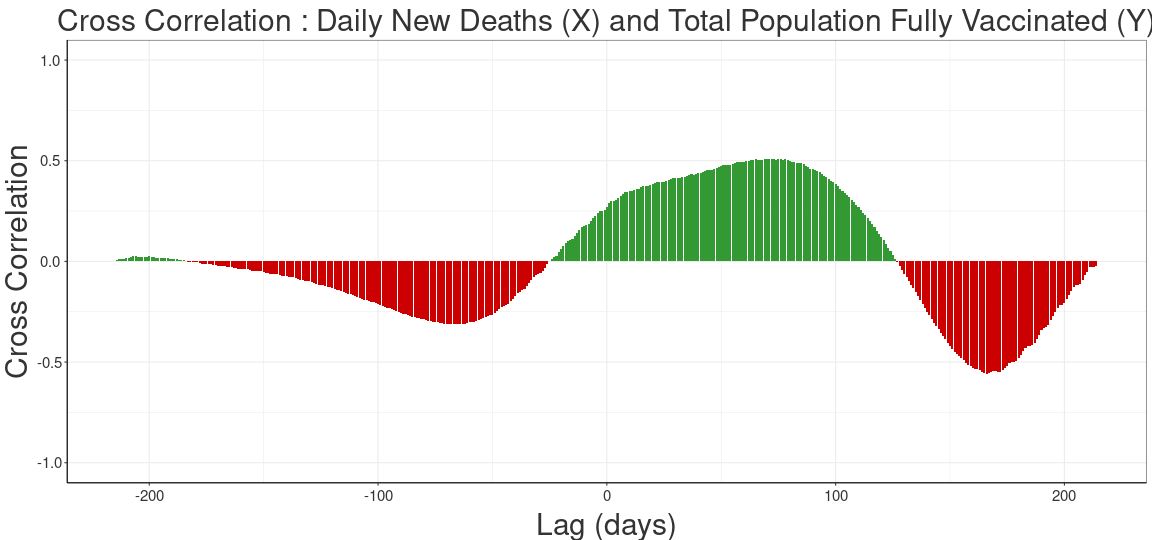
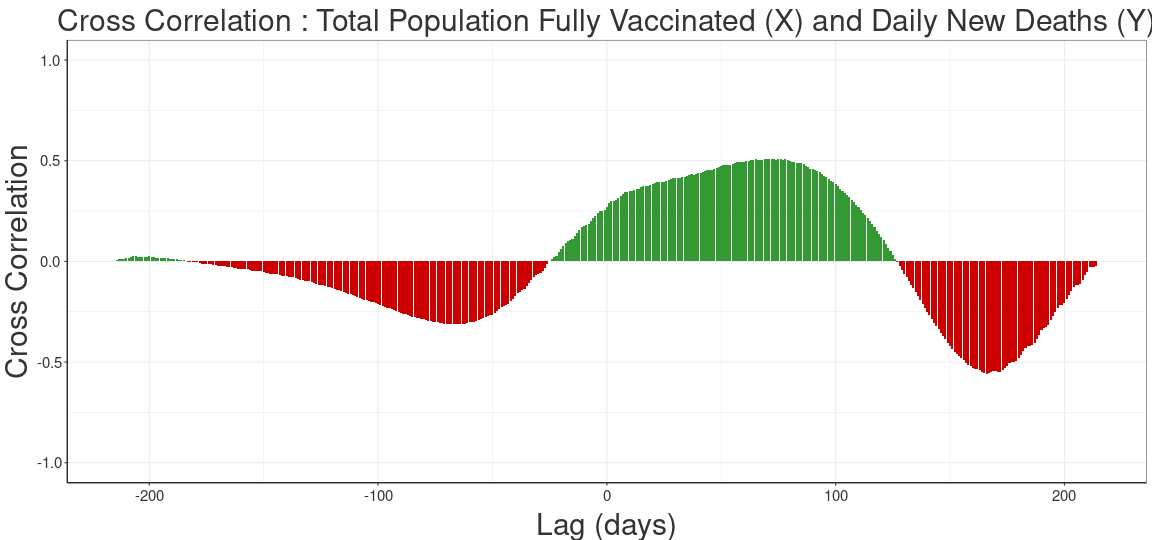
Fix minor error if ccf vaccination cases/deaths slide

Changed region(s): [[0.25, 0.0, 0.9688, 0.0593]]

diff --git a/presentation/presentation.html b/presentation/presentation.html
@@ -4,7 +4,7 @@
     <title>DCS210 Final Project</title>
     <meta charset="utf-8" />
     <meta name="author" content="omarxinyijohn   John Mieszczanski &amp; Omar Sarr &amp; Xinyi Zhang" />
-    <meta name="date" content="2021-11-17" />
+    <meta name="date" content="2021-11-18" />
     <script src="libs/header-attrs-2.11/header-attrs.js"></script>
     <script src="libs/core-js-2.5.3/shim.min.js"></script>
     <script src="libs/react-17.0.0/react.min.js"></script>
@@ -22,7 +22,7 @@ class: center, middle, inverse, title-slide
 ## Exploring COVID-19 Data
 ### omarxinyijohn <br> John Mieszczanski &amp; Omar Sarr &amp; Xinyi Zhang
 ### Bates College
-### 2021-11-17
+### 2021-11-18
 
 ---
 
@@ -60,8 +60,8 @@ shutting down indefinitely. Two days later, Bates College announced they would
 be sending us home!
 
 How do these two key dates compare the worst day(s) of the pandemic?
-<div id="htmlwidget-5c03647a2a602cbb1918" class="reactable html-widget" style="width:auto;height:auto;"></div>
-<script type="application/json" data-for="htmlwidget-5c03647a2a602cbb1918">{"x":{"tag":{"name":"Reactable","attribs":{"data":{"submission_date":["2021-01-13","2021-01-06","2020-03-13","2020-03-11","2020-01-22"],"total_new_cases":[232342,286542,1211,796,7],"total_new_deaths":[4095,4040,10,14,0],"total_cases":[22914389,21284925,6750,4464,7],"total_deaths":[388855,363853,296,279,0]},"columns":[{"accessor":"submission_date","name":"submission_date","type":"Date"},{"accessor":"total_new_cases","name":"total_new_cases","type":"numeric"},{"accessor":"total_new_deaths","name":"total_new_deaths","type":"numeric"},{"accessor":"total_cases","name":"total_cases","type":"numeric"},{"accessor":"total_deaths","name":"total_deaths","type":"numeric"}],"defaultPageSize":10,"paginationType":"numbers","showPageInfo":true,"minRows":1,"dataKey":"b6435a103110c66afc4fb2fd4955db14","key":"b6435a103110c66afc4fb2fd4955db14"},"children":[]},"class":"reactR_markup"},"evals":[],"jsHooks":[]}</script>
+<div id="htmlwidget-35b391b0701672d4770f" class="reactable html-widget" style="width:auto;height:auto;"></div>
+<script type="application/json" data-for="htmlwidget-35b391b0701672d4770f">{"x":{"tag":{"name":"Reactable","attribs":{"data":{"submission_date":["2021-01-13","2021-01-06","2020-03-13","2020-03-11","2020-01-22"],"total_new_cases":[232342,286542,1211,796,7],"total_new_deaths":[4095,4040,10,14,0],"total_cases":[22914389,21284925,6750,4464,7],"total_deaths":[388855,363853,296,279,0]},"columns":[{"accessor":"submission_date","name":"submission_date","type":"Date"},{"accessor":"total_new_cases","name":"total_new_cases","type":"numeric"},{"accessor":"total_new_deaths","name":"total_new_deaths","type":"numeric"},{"accessor":"total_cases","name":"total_cases","type":"numeric"},{"accessor":"total_deaths","name":"total_deaths","type":"numeric"}],"defaultPageSize":10,"paginationType":"numbers","showPageInfo":true,"minRows":1,"dataKey":"b6435a103110c66afc4fb2fd4955db14","key":"b6435a103110c66afc4fb2fd4955db14"},"children":[]},"class":"reactR_markup"},"evals":[],"jsHooks":[]}</script>
 
 
 
@@ -124,7 +124,7 @@ Results from the linear regression:
 ```
 ## parsnip model object
 ## 
-## Fit time:  2ms 
+## Fit time:  1ms 
 ## 
 ## Call:
 ## stats::lm(formula = total_new_deaths ~ total_new_cases, data = data)
@@ -179,8 +179,8 @@ it is sometimes said that **x lags y** `\(^*\)`
 ![](presentation_files/figure-html/unnamed-chunk-13-1.png)&lt;!-- --&gt;
 ---
 ### COVID-19 Cases and Deaths - What is the correlation?
-<div id="htmlwidget-1deba258358ea8a2e4f8" class="reactable html-widget" style="width:auto;height:auto;"></div>
-<script type="application/json" data-for="htmlwidget-1deba258358ea8a2e4f8">{"x":{"tag":{"name":"Reactable","attribs":{"data":{"lag":[-14,-13,-12,-11,-10,-9,-8,-7,-6,-5,-4,-3,-2,-1,0,1,2,3,4,5,6,7,8,9,10,11,12,13,14],"CCF":[0.615668424623971,0.606773140455285,0.59186688302889,0.593973717825131,0.618641552254152,0.659613299285235,0.70125876571578,0.722280253922383,0.708958451876537,0.687850806985028,0.687962957595549,0.711616677481224,0.754171830561287,0.799068675949353,0.820502227153397,0.796409771368472,0.763673282639324,0.752818541854009,0.768960473702557,0.803219475801107,0.840492750961459,0.852195623010247,0.828596579563542,0.79344775594735,0.779349918908669,0.787212753058398,0.815599374576751,0.847000704762521,0.855138637319276]},"columns":[{"accessor":"lag","name":"lag","type":"numeric"},{"accessor":"CCF","name":"CCF","type":"numeric"}],"defaultPageSize":10,"paginationType":"numbers","showPageInfo":true,"minRows":1,"dataKey":"73cb36252ca6b8200959be914ee4eb77","key":"73cb36252ca6b8200959be914ee4eb77"},"children":[]},"class":"reactR_markup"},"evals":[],"jsHooks":[]}</script>
+<div id="htmlwidget-3b3ac7d7e48b081a2236" class="reactable html-widget" style="width:auto;height:auto;"></div>
+<script type="application/json" data-for="htmlwidget-3b3ac7d7e48b081a2236">{"x":{"tag":{"name":"Reactable","attribs":{"data":{"lag":[-14,-13,-12,-11,-10,-9,-8,-7,-6,-5,-4,-3,-2,-1,0,1,2,3,4,5,6,7,8,9,10,11,12,13,14],"CCF":[0.615668424623971,0.606773140455285,0.59186688302889,0.593973717825131,0.618641552254152,0.659613299285235,0.70125876571578,0.722280253922383,0.708958451876537,0.687850806985028,0.687962957595549,0.711616677481224,0.754171830561287,0.799068675949353,0.820502227153397,0.796409771368472,0.763673282639324,0.752818541854009,0.768960473702557,0.803219475801107,0.840492750961459,0.852195623010247,0.828596579563542,0.79344775594735,0.779349918908669,0.787212753058398,0.815599374576751,0.847000704762521,0.855138637319276]},"columns":[{"accessor":"lag","name":"lag","type":"numeric"},{"accessor":"CCF","name":"CCF","type":"numeric"}],"defaultPageSize":10,"paginationType":"numbers","showPageInfo":true,"minRows":1,"dataKey":"73cb36252ca6b8200959be914ee4eb77","key":"73cb36252ca6b8200959be914ee4eb77"},"children":[]},"class":"reactR_markup"},"evals":[],"jsHooks":[]}</script>
 ---
 ### COVID-19 Vaccinations Over Time
 Now let's take a look at how the number people of vaccinated in the United States 
@@ -213,15 +213,15 @@ in conjunction with one another:
 ![](presentation_files/figure-html/unnamed-chunk-22-1.png)&lt;!-- --&gt;
 ---
 ### Exploring the Relationship Between Vaccinations and Cases/Deaths
-<div id="htmlwidget-1a5cf232e05fde419f75" class="reactable html-widget" style="width:auto;height:auto;"></div>
-<script type="application/json" data-for="htmlwidget-1a5cf232e05fde419f75">{"x":{"tag":{"name":"Reactable","attribs":{"data":{"lag":[-100,-99,-98,-97,-96,-95,-94,-93,-92,-91,-90,-89,-88,-87,-86,-85,-84,-83,-82,-81,-80,-79,-78,-77,-76,-75,-74,-73,-72,-71,-70,-69,-68,-67,-66,-65,-64,-63,-62,-61,-60,-59,-58,-57,-56,-55,-54,-53,-52,-51,-50,-49,-48,-47,-46,-45,-44,-43,-42,-41,-40,-39,-38,-37,-36,-35,-34,-33,-32,-31,-30,-29,-28,-27,-26,-25,-24,-23,-22,-21,-20,-19,-18,-17,-16,-15,-14,-13,-12,-11,-10,-9,-8,-7,-6,-5,-4,-3,-2,-1,0,1,2,3,4,5,6,7,8,9,10,11,12,13,14,15,16,17,18,19,20,21,22,23,24,25,26,27,28,29,30,31,32,33,34,35,36,37,38,39,40,41,42,43,44,45,46,47,48,49,50,51,52,53,54,55,56,57,58,59,60,61,62,63,64,65,66,67,68,69,70,71,72,73,74,75,76,77,78,79,80,81,82,83,84,85,86,87,88,89,90,91,92,93,94,95,96,97,98,99,100],"CCF":[-0.213248381380957,-0.217738907213843,-0.221566702904557,-0.225477982033781,-0.229586793617756,-0.233048988684151,-0.237652421344898,-0.242609425352485,-0.247552933009512,-0.251705927720915,-0.25531451810164,-0.259276380470779,-0.262376453339252,-0.266710820519255,-0.271186004412279,-0.274768191197299,-0.277260332341809,-0.279712017230907,-0.28222493253776,-0.284730238455088,-0.288307875274155,-0.292305342146084,-0.295418333116981,-0.297886975700913,-0.299322966862015,-0.301385820654071,-0.302772915743377,-0.304970087620152,-0.307561156284075,-0.309195673094132,-0.309497386545392,-0.310195179419955,-0.3105034843543,-0.310462463962311,-0.311364849994302,-0.312874668167242,-0.312718950160766,-0.310797197600129,-0.308513865131956,-0.306175492005488,-0.302859833878696,-0.301031108514897,-0.300313129696181,-0.297679937719046,-0.292855640880998,-0.287724904388651,-0.282431257384573,-0.275389397052806,-0.271294113316808,-0.268499115744833,-0.264715536585255,-0.257188853369181,-0.24683210217485,-0.238044644329851,-0.227453656606116,-0.220460278301245,-0.216337256769057,-0.209221644272566,-0.197511952846254,-0.185548597996994,-0.172924083901521,-0.159197567454319,-0.149728744089115,-0.14272123014025,-0.134668377081324,-0.12251134287058,-0.108228017467368,-0.0934073110990228,-0.0789116371317118,-0.0693815529336841,-0.062489137608472,-0.0565906538228863,-0.0461361935153978,-0.030841885939028,-0.0145755676866547,0.0024847573280493,0.0128670500672548,0.0195616393053635,0.0269817711386626,0.0443417961730321,0.0600228483604656,0.0744530046338804,0.0905079129519432,0.0998699446921936,0.105218332752197,0.11239243637139,0.127129714088622,0.140983552782672,0.154530559608397,0.170163510389643,0.177033998268327,0.180218372839912,0.186778243904811,0.199540861364867,0.215160654361916,0.227846682904296,0.242752607192807,0.248199062134119,0.249684571620469,0.253830482650125,0.268829697421208,0.288410506687825,0.297585846754769,0.300396573031002,0.305353498306544,0.31372723091128,0.324737655052863,0.333527780810887,0.342682836038088,0.346922863481406,0.347747923637613,0.349792548459522,0.35566881316532,0.360212870316439,0.361843981139554,0.370827795375333,0.374362694090239,0.374327387533081,0.375238218849525,0.378111665204449,0.383518141703877,0.387304613519141,0.39353291636252,0.396338998950925,0.395445090840667,0.396513785291906,0.400176108344763,0.405972572626998,0.408809456127532,0.411855430336237,0.415065615470189,0.414457766139951,0.412614748022237,0.416801878873492,0.420796830744878,0.42467968565996,0.428995953258749,0.43181561803205,0.430759971423945,0.431941120312133,0.437193165816888,0.441034348511068,0.444823972977834,0.450768579131295,0.453067408649812,0.453303080449016,0.454119481428776,0.45928188599363,0.463080445619676,0.466986628580403,0.473424922647656,0.477062166560483,0.476458002356054,0.477272823737288,0.478641874321376,0.484096105195811,0.487885777669509,0.492591918834224,0.493638204421527,0.492425959092883,0.492723755852608,0.496734089093231,0.499305393369647,0.501276020274371,0.505966228045238,0.506678806187139,0.504525790496263,0.502846276212151,0.504770432890873,0.507196294743317,0.508054221354938,0.511027530288188,0.50960256101898,0.507616785015745,0.505128783945945,0.506241663239969,0.506310423489201,0.505121219814794,0.506200900887701,0.503253705015605,0.497599148670306,0.493661965478604,0.491761035765903,0.489504076160172,0.487550011481658,0.486363819982571,0.481563075731147,0.47475429082566,0.467561698946985,0.461138448056947,0.456856074787155,0.45181231668865,0.449042531062344,0.44203778882033,0.433309047212647,0.425885775493286,0.417571770605893,0.409286627882858,0.401796142265858,0.394092591274254,0.385033528853741]},"columns":[{"accessor":"lag","name":"lag","type":"numeric"},{"accessor":"CCF","name":"CCF","type":"numeric"}],"defaultPageSize":10,"paginationType":"numbers","showPageInfo":true,"minRows":1,"dataKey":"f3e5d51efcc221b11eb30845437daa5f","key":"f3e5d51efcc221b11eb30845437daa5f"},"children":[]},"class":"reactR_markup"},"evals":[],"jsHooks":[]}</script>
+<div id="htmlwidget-9a14126a08b39ea4b765" class="reactable html-widget" style="width:auto;height:auto;"></div>
+<script type="application/json" data-for="htmlwidget-9a14126a08b39ea4b765">{"x":{"tag":{"name":"Reactable","attribs":{"data":{"lag":[-100,-99,-98,-97,-96,-95,-94,-93,-92,-91,-90,-89,-88,-87,-86,-85,-84,-83,-82,-81,-80,-79,-78,-77,-76,-75,-74,-73,-72,-71,-70,-69,-68,-67,-66,-65,-64,-63,-62,-61,-60,-59,-58,-57,-56,-55,-54,-53,-52,-51,-50,-49,-48,-47,-46,-45,-44,-43,-42,-41,-40,-39,-38,-37,-36,-35,-34,-33,-32,-31,-30,-29,-28,-27,-26,-25,-24,-23,-22,-21,-20,-19,-18,-17,-16,-15,-14,-13,-12,-11,-10,-9,-8,-7,-6,-5,-4,-3,-2,-1,0,1,2,3,4,5,6,7,8,9,10,11,12,13,14,15,16,17,18,19,20,21,22,23,24,25,26,27,28,29,30,31,32,33,34,35,36,37,38,39,40,41,42,43,44,45,46,47,48,49,50,51,52,53,54,55,56,57,58,59,60,61,62,63,64,65,66,67,68,69,70,71,72,73,74,75,76,77,78,79,80,81,82,83,84,85,86,87,88,89,90,91,92,93,94,95,96,97,98,99,100],"CCF":[-0.213248381380957,-0.217738907213843,-0.221566702904557,-0.225477982033781,-0.229586793617756,-0.233048988684151,-0.237652421344898,-0.242609425352485,-0.247552933009512,-0.251705927720915,-0.25531451810164,-0.259276380470779,-0.262376453339252,-0.266710820519255,-0.271186004412279,-0.274768191197299,-0.277260332341809,-0.279712017230907,-0.28222493253776,-0.284730238455088,-0.288307875274155,-0.292305342146084,-0.295418333116981,-0.297886975700913,-0.299322966862015,-0.301385820654071,-0.302772915743377,-0.304970087620152,-0.307561156284075,-0.309195673094132,-0.309497386545392,-0.310195179419955,-0.3105034843543,-0.310462463962311,-0.311364849994302,-0.312874668167242,-0.312718950160766,-0.310797197600129,-0.308513865131956,-0.306175492005488,-0.302859833878696,-0.301031108514897,-0.300313129696181,-0.297679937719046,-0.292855640880998,-0.287724904388651,-0.282431257384573,-0.275389397052806,-0.271294113316808,-0.268499115744833,-0.264715536585255,-0.257188853369181,-0.24683210217485,-0.238044644329851,-0.227453656606116,-0.220460278301245,-0.216337256769057,-0.209221644272566,-0.197511952846254,-0.185548597996994,-0.172924083901521,-0.159197567454319,-0.149728744089115,-0.14272123014025,-0.134668377081324,-0.12251134287058,-0.108228017467368,-0.0934073110990228,-0.0789116371317118,-0.0693815529336841,-0.062489137608472,-0.0565906538228863,-0.0461361935153978,-0.030841885939028,-0.0145755676866547,0.0024847573280493,0.0128670500672548,0.0195616393053635,0.0269817711386626,0.0443417961730321,0.0600228483604656,0.0744530046338804,0.0905079129519432,0.0998699446921936,0.105218332752197,0.11239243637139,0.127129714088622,0.140983552782672,0.154530559608397,0.170163510389643,0.177033998268327,0.180218372839912,0.186778243904811,0.199540861364867,0.215160654361916,0.227846682904296,0.242752607192807,0.248199062134119,0.249684571620469,0.253830482650125,0.268829697421208,0.288410506687825,0.297585846754769,0.300396573031002,0.305353498306544,0.31372723091128,0.324737655052863,0.333527780810887,0.342682836038088,0.346922863481406,0.347747923637613,0.349792548459522,0.35566881316532,0.360212870316439,0.361843981139554,0.370827795375333,0.374362694090239,0.374327387533081,0.375238218849525,0.378111665204449,0.383518141703877,0.387304613519141,0.39353291636252,0.396338998950925,0.395445090840667,0.396513785291906,0.400176108344763,0.405972572626998,0.408809456127532,0.411855430336237,0.415065615470189,0.414457766139951,0.412614748022237,0.416801878873492,0.420796830744878,0.42467968565996,0.428995953258749,0.43181561803205,0.430759971423945,0.431941120312133,0.437193165816888,0.441034348511068,0.444823972977834,0.450768579131295,0.453067408649812,0.453303080449016,0.454119481428776,0.45928188599363,0.463080445619676,0.466986628580403,0.473424922647656,0.477062166560483,0.476458002356054,0.477272823737288,0.478641874321376,0.484096105195811,0.487885777669509,0.492591918834224,0.493638204421527,0.492425959092883,0.492723755852608,0.496734089093231,0.499305393369647,0.501276020274371,0.505966228045238,0.506678806187139,0.504525790496263,0.502846276212151,0.504770432890873,0.507196294743317,0.508054221354938,0.511027530288188,0.50960256101898,0.507616785015745,0.505128783945945,0.506241663239969,0.506310423489201,0.505121219814794,0.506200900887701,0.503253705015605,0.497599148670306,0.493661965478604,0.491761035765903,0.489504076160172,0.487550011481658,0.486363819982571,0.481563075731147,0.47475429082566,0.467561698946985,0.461138448056947,0.456856074787155,0.45181231668865,0.449042531062344,0.44203778882033,0.433309047212647,0.425885775493286,0.417571770605893,0.409286627882858,0.401796142265858,0.394092591274254,0.385033528853741]},"columns":[{"accessor":"lag","name":"lag","type":"numeric"},{"accessor":"CCF","name":"CCF","type":"numeric"}],"defaultPageSize":10,"paginationType":"numbers","showPageInfo":true,"minRows":1,"dataKey":"f3e5d51efcc221b11eb30845437daa5f","key":"f3e5d51efcc221b11eb30845437daa5f"},"children":[]},"class":"reactR_markup"},"evals":[],"jsHooks":[]}</script>
 ---
 ### Exploring the Seasonality of COVID-19
 Let's explore the relationship between COVID-19 and the four seasons:
 
 
-<div id="htmlwidget-cd7b7d2c86438dadceaf" class="reactable html-widget" style="width:auto;height:auto;"></div>
-<script type="application/json" data-for="htmlwidget-cd7b7d2c86438dadceaf">{"x":{"tag":{"name":"Reactable","attribs":{"data":{"season":["Fall","Spring","Summer","Winter"],"median_ncases":[86178,26539,45333.5,114615],"median_ndeaths":[964,663,708,2275],"mean_ncases":[94741.6428571429,32010.0706521739,55820.5217391304,111475.248062016],"mean_ndeaths":[1125,780.233695652174,719.423913043478,1860.73643410853],"sd_ncases":[50830.6077759398,19627.5833506379,43210.6982877295,92795.6783835991],"sd_ndeaths":[492.16530556308,530.913085778405,390.067634143699,1387.18077701333],"min_ncases":[23414,77,8167,0],"max_ncases":[199128,74299,187655,286542],"iqr_ncases":[90448,28182.75,45957.5,194425]},"columns":[{"accessor":"season","name":"season","type":"character"},{"accessor":"median_ncases","name":"median_ncases","type":"numeric"},{"accessor":"median_ndeaths","name":"median_ndeaths","type":"numeric"},{"accessor":"mean_ncases","name":"mean_ncases","type":"numeric"},{"accessor":"mean_ndeaths","name":"mean_ndeaths","type":"numeric"},{"accessor":"sd_ncases","name":"sd_ncases","type":"numeric"},{"accessor":"sd_ndeaths","name":"sd_ndeaths","type":"numeric"},{"accessor":"min_ncases","name":"min_ncases","type":"numeric"},{"accessor":"max_ncases","name":"max_ncases","type":"numeric"},{"accessor":"iqr_ncases","name":"iqr_ncases","type":"numeric"}],"defaultPageSize":10,"paginationType":"numbers","showPageInfo":true,"minRows":1,"dataKey":"d6f277635197c51923d123d45247998e","key":"d6f277635197c51923d123d45247998e"},"children":[]},"class":"reactR_markup"},"evals":[],"jsHooks":[]}</script>
+<div id="htmlwidget-a8e31f1d50ff819ddacc" class="reactable html-widget" style="width:auto;height:auto;"></div>
+<script type="application/json" data-for="htmlwidget-a8e31f1d50ff819ddacc">{"x":{"tag":{"name":"Reactable","attribs":{"data":{"season":["Fall","Spring","Summer","Winter"],"median_ncases":[86178,26539,45333.5,114615],"median_ndeaths":[964,663,708,2275],"mean_ncases":[94741.6428571429,32010.0706521739,55820.5217391304,111475.248062016],"mean_ndeaths":[1125,780.233695652174,719.423913043478,1860.73643410853],"sd_ncases":[50830.6077759398,19627.5833506379,43210.6982877295,92795.6783835991],"sd_ndeaths":[492.16530556308,530.913085778405,390.067634143699,1387.18077701333],"min_ncases":[23414,77,8167,0],"max_ncases":[199128,74299,187655,286542],"iqr_ncases":[90448,28182.75,45957.5,194425]},"columns":[{"accessor":"season","name":"season","type":"character"},{"accessor":"median_ncases","name":"median_ncases","type":"numeric"},{"accessor":"median_ndeaths","name":"median_ndeaths","type":"numeric"},{"accessor":"mean_ncases","name":"mean_ncases","type":"numeric"},{"accessor":"mean_ndeaths","name":"mean_ndeaths","type":"numeric"},{"accessor":"sd_ncases","name":"sd_ncases","type":"numeric"},{"accessor":"sd_ndeaths","name":"sd_ndeaths","type":"numeric"},{"accessor":"min_ncases","name":"min_ncases","type":"numeric"},{"accessor":"max_ncases","name":"max_ncases","type":"numeric"},{"accessor":"iqr_ncases","name":"iqr_ncases","type":"numeric"}],"defaultPageSize":10,"paginationType":"numbers","showPageInfo":true,"minRows":1,"dataKey":"d6f277635197c51923d123d45247998e","key":"d6f277635197c51923d123d45247998e"},"children":[]},"class":"reactR_markup"},"evals":[],"jsHooks":[]}</script>
 
 ---
 ### Exploring the Seasonality of COVID-19
@@ -238,7 +238,7 @@ the `season` variable:
 ```
 ## parsnip model object
 ## 
-## Fit time:  3ms 
+## Fit time:  2ms 
 ## 
 ## Call:
 ## stats::lm(formula = total_new_cases ~ factor(season), data = data)
@@ -310,7 +310,7 @@ deaths_cases_int_fit
 ```
 ## parsnip model object
 ## 
-## Fit time:  2ms 
+## Fit time:  3ms 
 ## 
 ## Call:
 ## stats::lm(formula = total_new_deaths ~ total_new_cases * factor(season), 
